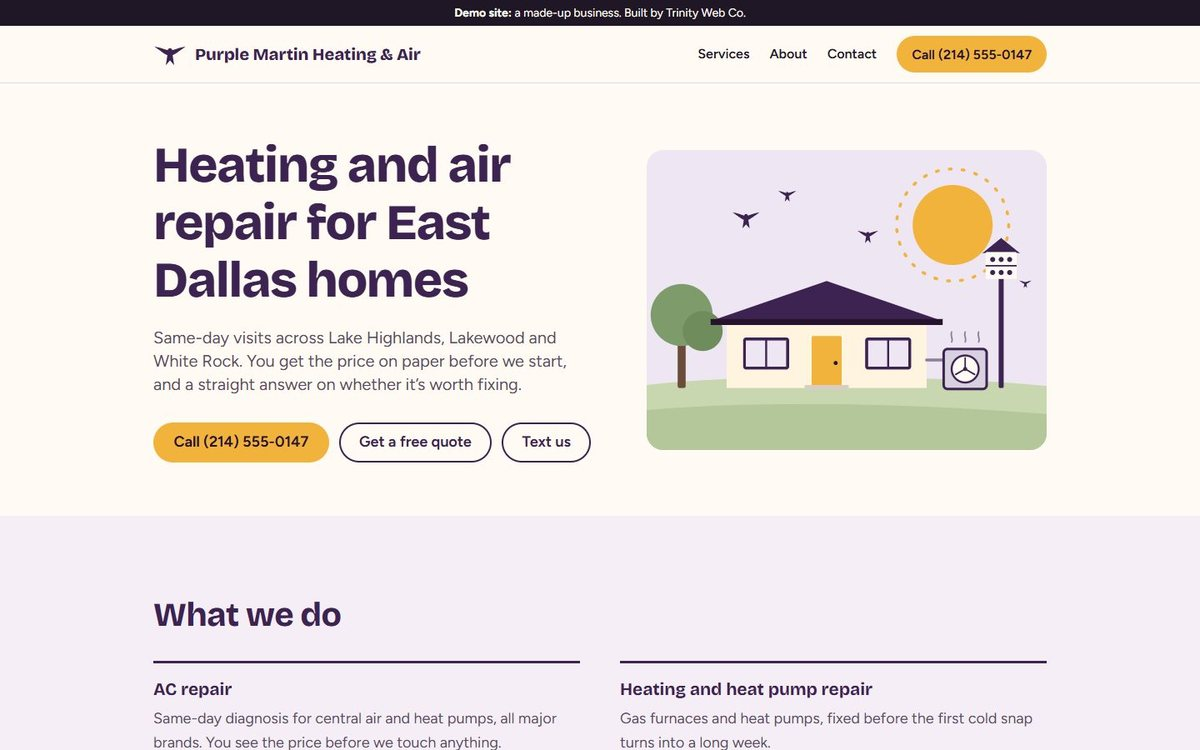
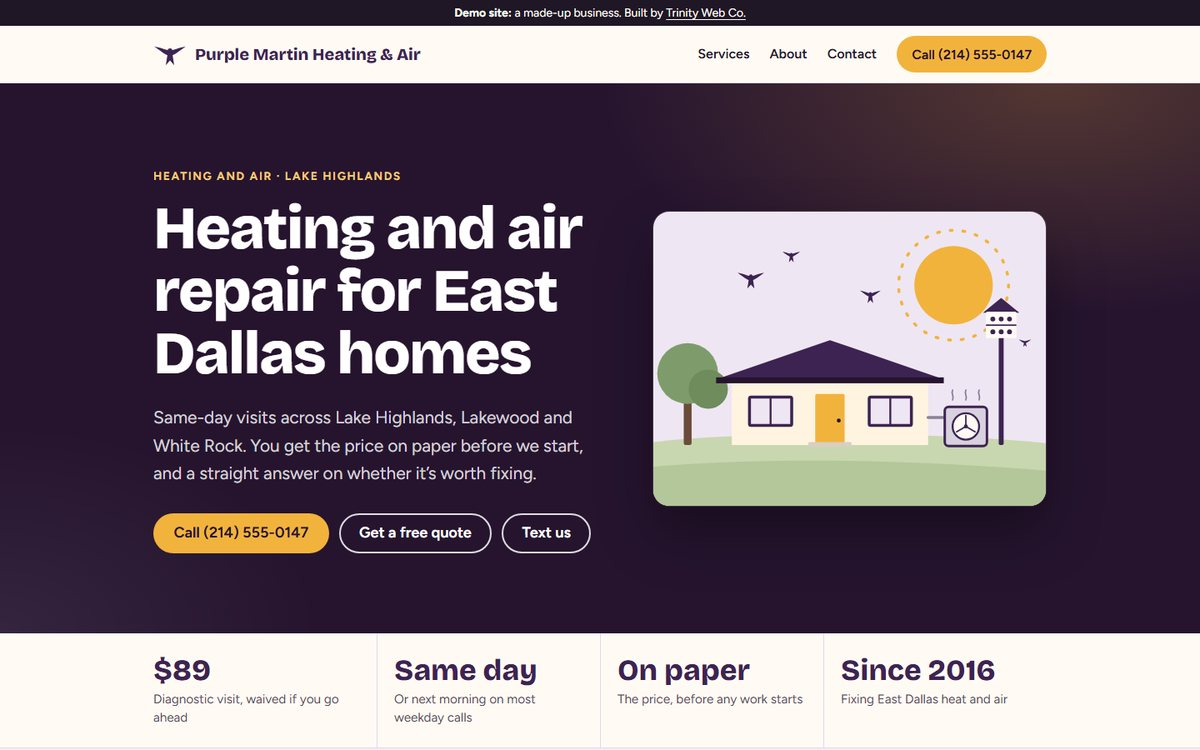
Show the rebuilt demos in the site's demo screenshots
New full-page and card screenshots of both production demos, taken
2026-10-30 after the website-rebuilder restyle. Good Oak's image text no
longer quotes a time that the new shot doesn't show.

diff --git a/site/src/content/site.ts b/site/src/content/site.ts
@@ -208,7 +208,7 @@ export const offer: StudioOffer = {
         pageSpeed: 100,
         image: demoGoodOak,
         imageAlt:
-          'Homepage of the Good Oak Barbershop demo: “Sharp cuts and hot towel shaves in Oak Cliff,” call and text buttons, “Open now · until 7 pm,” and an illustration of a corner barbershop',
+          'Homepage of the Good Oak Barbershop demo: “Sharp cuts and hot towel shaves in Oak Cliff,” call and text buttons, whether the shop is open now, and an illustration of a corner barbershop',
       },
     ],
   },
